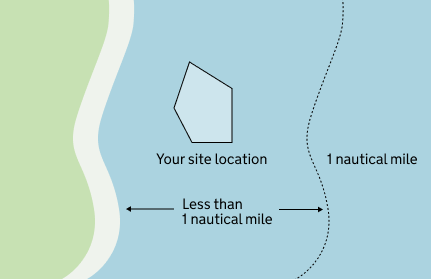
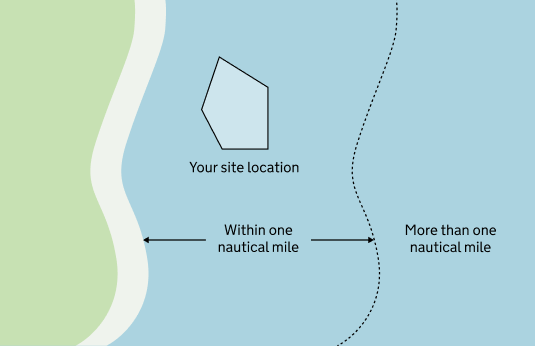
Add explanatory caption for nautical mile image
Add a short paragraph above the nautical-mile-illustration on the Water Framework Directive page to clarify the example shows a site within one nautical mile of the coast. Also update the nautical-mile-illustration.png asset.

diff --git a/app/views/versions/multiple-sites-v2/low-complexity-v3/environmental-assessments/water-framework-directive.html b/app/views/versions/multiple-sites-v2/low-complexity-v3/environmental-assessments/water-framework-directive.html
@@ -52,6 +52,8 @@ Is your project located within one nautical mile (1.85km) of the coast?
                         </span>
                     </summary>
                     <div class="govuk-details__text">
+                        <p>This example shows a project site located within one nautical mile of the coast.</p>
+
                         <img src="/public/images/nautical-mile-illustration.png" alt="Diagram showing a site location in the water less than 1 nautical mile from the coast" width="100%" />
                     </div>
                 </details>